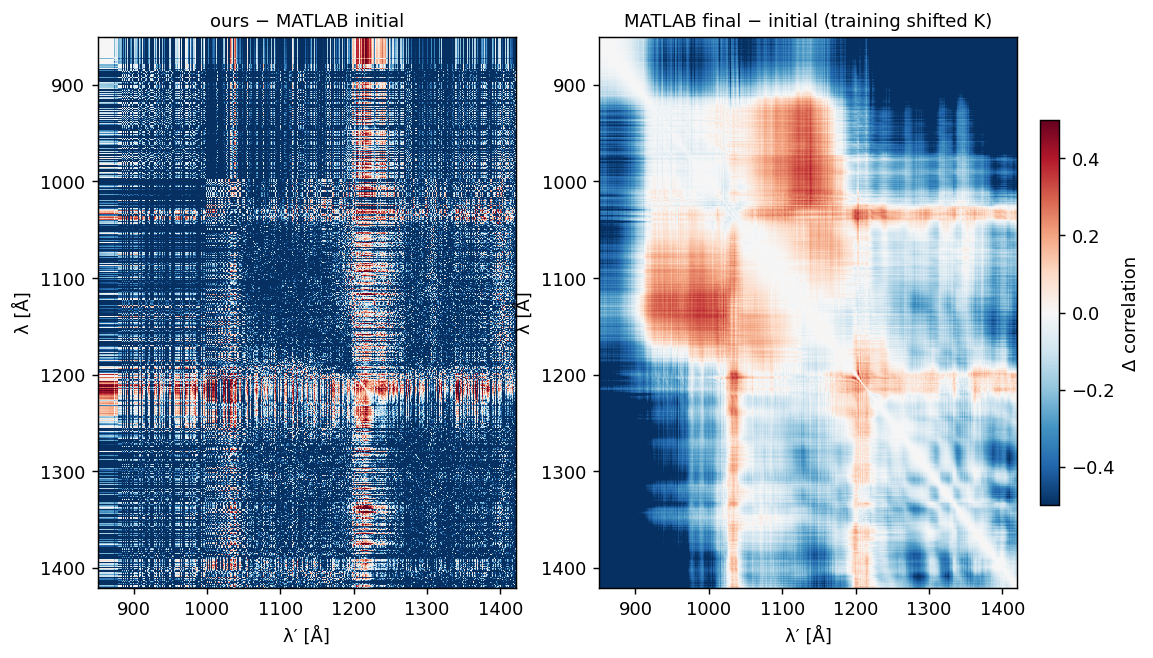
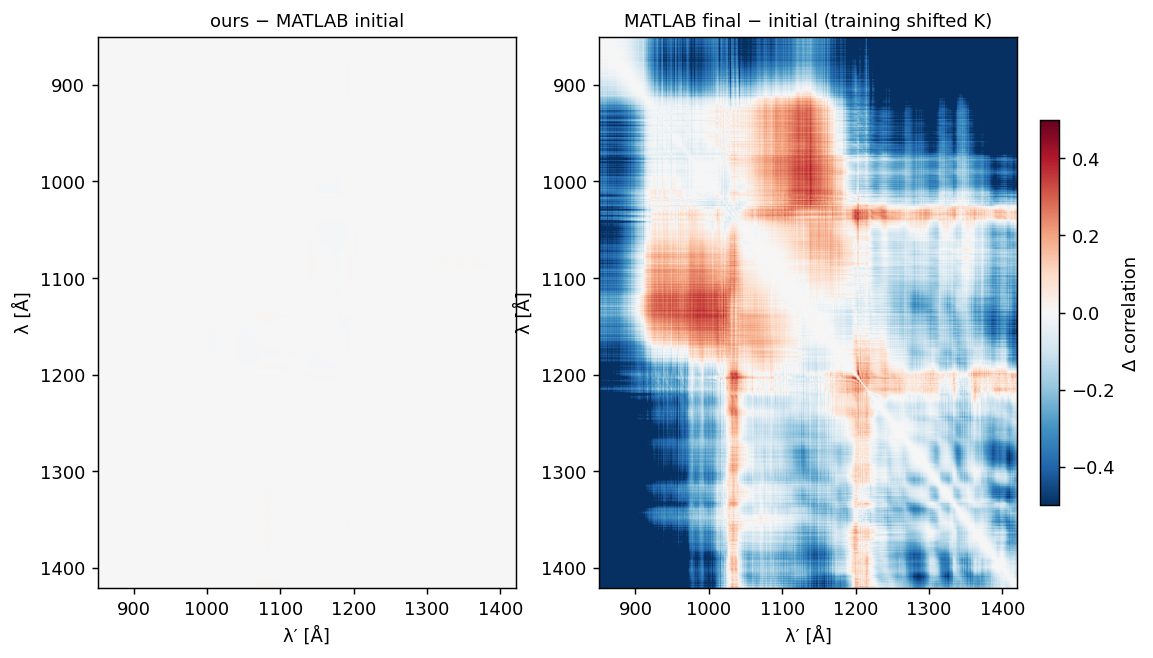
A.5 ✓ pipeline matches MATLAB DR16 initial_M after 3 fixes
The corr(M·M^T) of our PCA init now matches MATLAB's reference
initial_M to within typical small Δ correlation (left panel of
corr_matrix_dr16_delta.png is nearly all white).

Three fixes applied vs the original reproduction (in priority order):

  1. max_noise_variance > 9 mask BEFORE PCA. MATLAB sets noisy
     pixels to NaN at learn_qso_model.m:127-131; we were skipping
     this. Was the smoking gun for high-frequency noise in our
     eigenvectors.

  2. Row-median NaN fill (per spectrum) — matches MATLAB's
     learn_qso_model.m:197-206 exactly. Was using listwise-complete
     before (only 4943/89408 spectra).

  3. NaN-aware linear interp at the rest-grid step. MATLAB's interp1
     returns NaN where any bracketing pixel was masked; np.interp
     silently bridges with linear interpolation. Small effect (~0.1%
     of pixels) but worth fixing for sky-line/cosmic-ray gaps.

Two debug agents collaborated:

- Agent #1: full PCA-pipeline diff vs MATLAB. Identified
  max_noise_variance mask + per-spectrum normalization confirmed
  baked into preloaded_qsos.mat (not a gap).

- Agent #2: filter_flags semantics + per-pixel handling. Verified
  our train_ind boolean (loaded from learned_qso_model_..._851-1421.mat)
  faithfully captures `catalog.filter_flags == 0` and downstream gates;
  no missed catalog filter. Identified the np.interp NaN-bridging gap
  as the only remaining per-spectrum behavioral difference.
[…]

Changed region(s): [[0.0624, 0.0608, 0.4683, 0.9119]]

diff --git a/tests/plot_corr_dr16_comparison.py b/tests/plot_corr_dr16_comparison.py
@@ -65,13 +65,29 @@ def _build_cache():
             flux = np.asarray(f[all_flux[0, qi]])[0]
             nv = np.asarray(f[all_nv[0, qi]])[0]
             mask = np.asarray(f[all_mask[0, qi]])[0].astype(bool)
-            valid = ~mask & np.isfinite(flux) & np.isfinite(nv) & (nv > 0)
-            if valid.sum() < 100: continue
-            wave_rest = wave[valid] / (1.0 + float(z_qsos[i]))
-            interp_flux[i] = np.interp(rest_grid, wave_rest, flux[valid],
-                                        left=np.nan, right=np.nan)
-            interp_nv[i] = np.interp(rest_grid, wave_rest, nv[valid],
-                                       left=np.nan, right=np.nan)
+            # 2026-05-08 fix per debug-agent #2: MATLAB interp1 keeps full
+            # wavelength axis with masked pixels set to NaN; rest-grid points
+            # bracketed by a NaN return NaN. np.interp silently linearly
+            # bridges masked pixels — produces noise at sky-line gaps. Use
+            # NaN-aware linear interp here.
+            bad = mask | ~np.isfinite(flux) | ~np.isfinite(nv) | ~(nv > 0)
+            flux_nan = flux.copy(); flux_nan[bad] = np.nan
+            nv_nan = nv.copy();     nv_nan[bad] = np.nan
+            n_finite = int(np.sum(~bad))
+            if n_finite < 100: continue
+            wave_rest = wave / (1.0 + float(z_qsos[i]))
+            # Linear interp where both bracketing points are finite, else NaN
+            idx = np.searchsorted(wave_rest, rest_grid) - 1
+            valid_grid = (idx >= 0) & (idx < len(wave_rest) - 1)
+            idx_safe = np.clip(idx, 0, len(wave_rest) - 2)
+            t = (rest_grid - wave_rest[idx_safe]) / (
+                wave_rest[idx_safe + 1] - wave_rest[idx_safe])
+            f_interp = (1.0 - t) * flux_nan[idx_safe] + t * flux_nan[idx_safe + 1]
+            n_interp = (1.0 - t) * nv_nan[idx_safe]   + t * nv_nan[idx_safe + 1]
+            f_interp[~valid_grid] = np.nan
+            n_interp[~valid_grid] = np.nan
+            interp_flux[i] = f_interp
+            interp_nv[i] = n_interp
         print(f"  [cache] done in {time.time()-t0:.0f}s")
 
     # 2026-05-08 fix per debug-agent report: MATLAB masks pixels with
